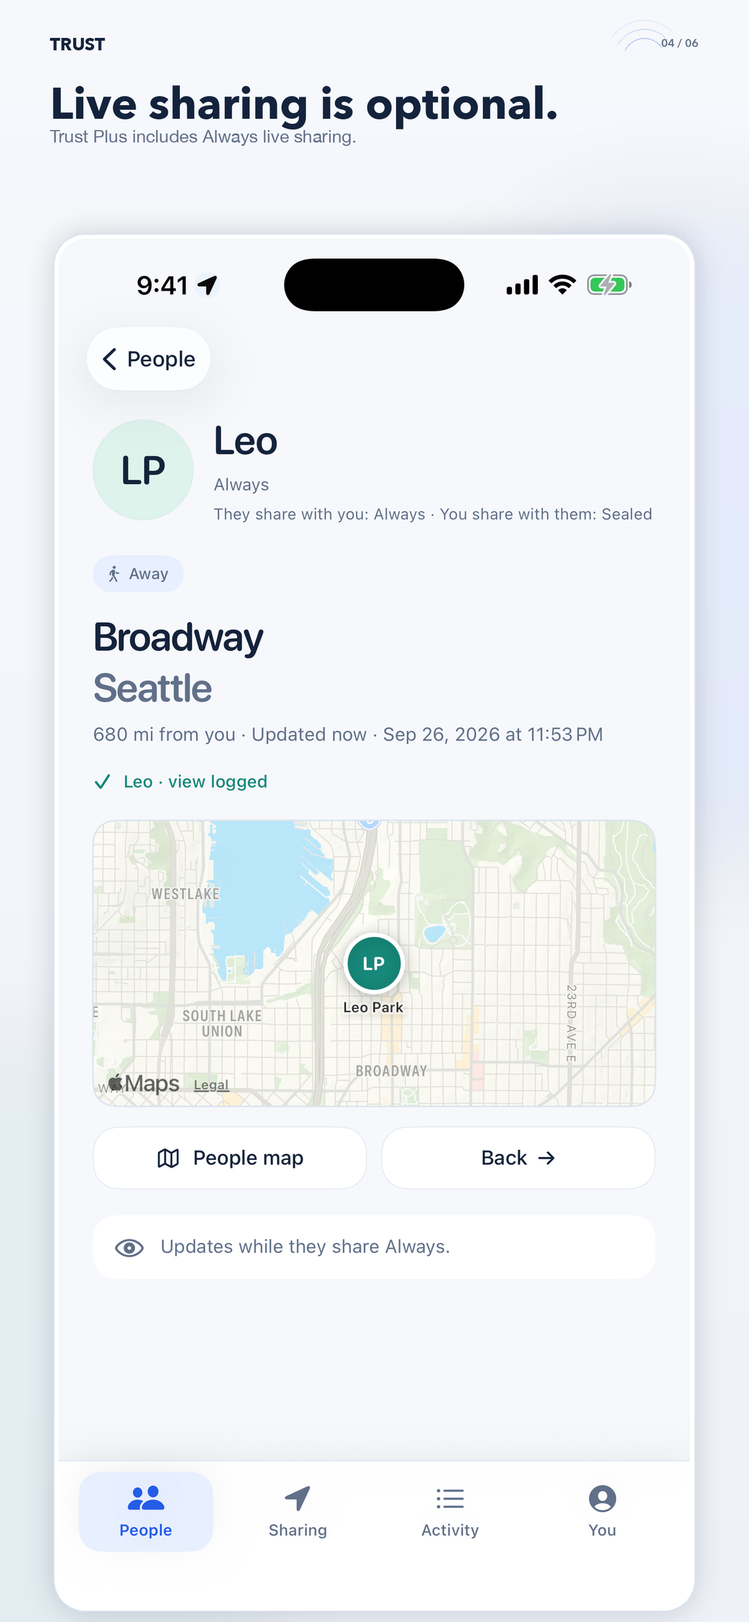
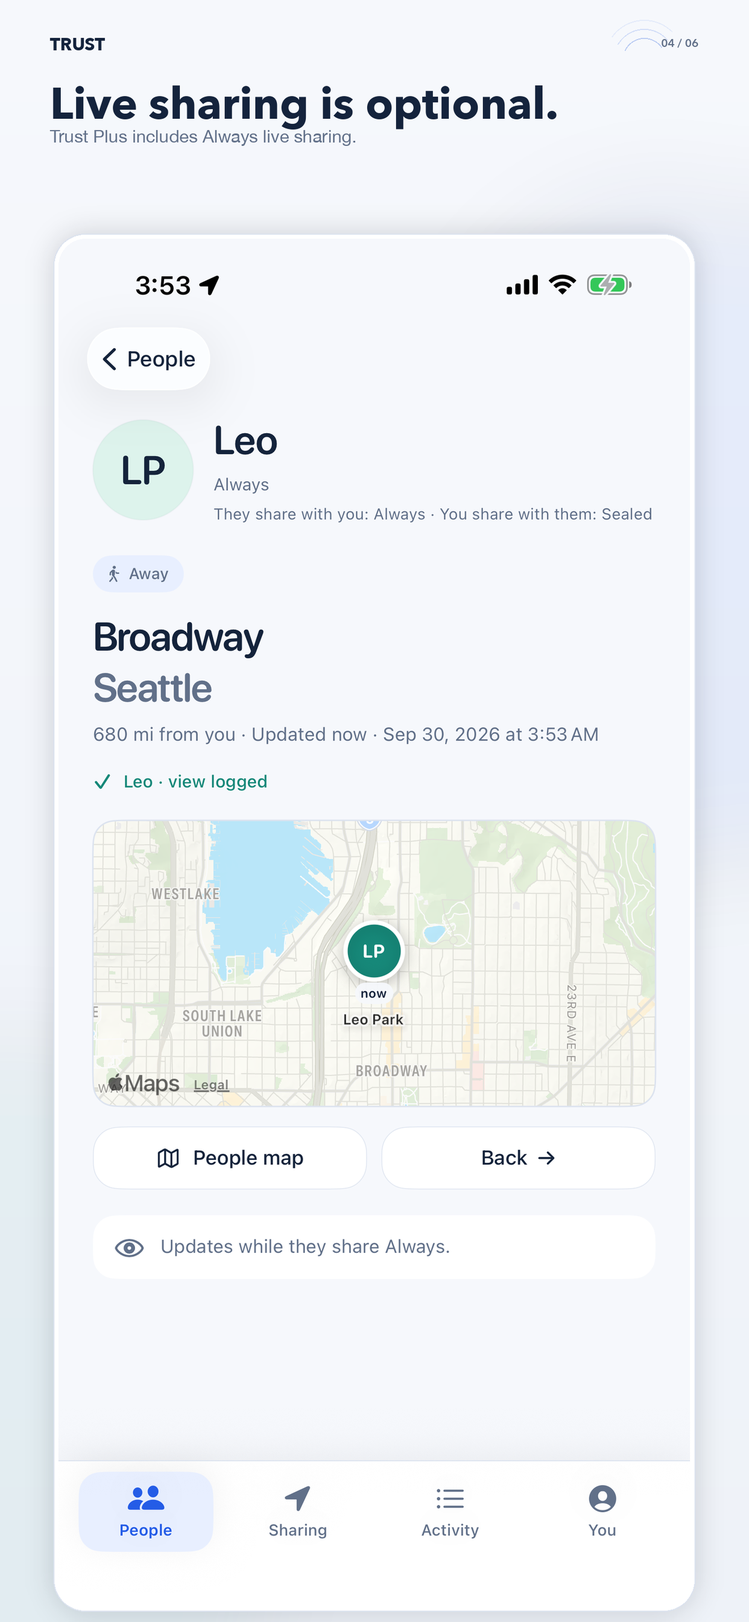
Fix launch screenshot evidence and UI test scrolling

diff --git a/apps/trust-ios/Tests/TrustUITests/TrustUsageTests.swift b/apps/trust-ios/Tests/TrustUITests/TrustUsageTests.swift
@@ -174,7 +174,13 @@ final class TrustUsageTests: XCTestCase {
         app.buttons["my-location"].tap()
         XCTAssertTrue(app.staticTexts["location-permission-status"].exists)
         app.buttons["Done"].tap()
-        app.buttons["edit-profile-picture"].tap()
+        let locationSheetDismissed = XCTNSPredicateExpectation(
+            predicate: NSPredicate(format: "exists == false"),
+            object: app.staticTexts["location-permission-status"])
+        XCTAssertEqual(XCTWaiter.wait(for: [locationSheetDismissed], timeout: 5), .completed)
+        let editProfilePicture = app.buttons["edit-profile-picture"]
+        XCTAssertTrue(scrollYouContent(to: editProfilePicture, direction: .up, in: app), "The profile picture control should be hittable after the location sheet closes.")
+        editProfilePicture.tap()
         XCTAssertTrue(app.buttons["avatar-photo-options"].waitForExistence(timeout: 5))
         app.buttons["Fox icon"].tap()
         XCTAssertTrue(app.buttons["avatar-save"].isEnabled)
@@ -191,6 +197,7 @@ final class TrustUsageTests: XCTestCase {
         for option in ["System", "Light", "Dark"] {
             let picker = app.descendants(matching: .any)["appearance-preference"]
             XCTAssertTrue(picker.waitForExistence(timeout: 5), "The appearance picker should be available in You.")
+            XCTAssertTrue(scrollYouContent(to: picker, direction: .down, in: app), "The appearance picker should be hittable after scrolling down in You.")
             picker.tap()
             let choice = app.buttons[option]
             XCTAssertTrue(choice.waitForExistence(timeout: 5), "The picker should offer the \(option) appearance.")
@@ -216,6 +223,7 @@ final class TrustUsageTests: XCTestCase {
             XCTAssertTrue(app.buttons["tab-you"].waitForExistence(timeout: 20))
             let relaunchedPicker = app.descendants(matching: .any)["appearance-preference"]
             XCTAssertTrue(relaunchedPicker.waitForExistence(timeout: 5))
+            XCTAssertTrue(scrollYouContent(to: relaunchedPicker, direction: .down, in: app), "The relaunched appearance picker should be hittable after scrolling down in You.")
             let preferenceRestored = XCTNSPredicateExpectation(
                 predicate: NSPredicate(format: "value == %@", option),
                 object: relaunchedPicker)
@@ -226,6 +234,8 @@ final class TrustUsageTests: XCTestCase {
         }
 
         let picker = app.descendants(matching: .any)["appearance-preference"]
+        XCTAssertTrue(scrollYouContent(to: picker, direction: .down, in: app))
+        XCTAssertTrue(picker.isHittable)
         picker.tap()
         app.buttons["System"].tap()
         let resetPicker = app.descendants(matching: .any)["appearance-preference"]
@@ -239,6 +249,7 @@ final class TrustUsageTests: XCTestCase {
         app.buttons["tab-you"].tap()
         let restoredPicker = app.descendants(matching: .any)["appearance-preference"]
         XCTAssertTrue(restoredPicker.waitForExistence(timeout: 5))
+        XCTAssertTrue(scrollYouContent(to: restoredPicker, direction: .down, in: app), "The restored appearance picker should be hittable after scrolling down in You.")
         let restoredToSystem = XCTNSPredicateExpectation(
             predicate: NSPredicate(format: "value == %@", "System"),
             object: restoredPicker)
@@ -389,6 +400,27 @@ final class TrustUsageTests: XCTestCase {
             XCTWaiter.wait(for: [dismissed], timeout: 5),
             .completed,
             "The confirmation dialog should dismiss before the next sharing action.")
+    }
+
+    /// Scrolls the You tab a few times and confirms the requested control is ready for input.
+    /// Starting at the control's known side of the page also handles XCUI frames that are
+    /// temporarily invalid while the control is outside the ScrollView viewport.
+    private func scrollYouContent(to element: XCUIElement, direction: ScrollDirection, in app: XCUIApplication) -> Bool {
+        let scrollView = app.scrollViews.firstMatch
+        guard scrollView.waitForExistence(timeout: 5) else { return false }
+        for _ in 0..<6 {
+            if element.isHittable { return true }
+            switch direction {
+            case .up: scrollView.swipeDown()
+            case .down: scrollView.swipeUp()
+            }
+        }
+        return element.isHittable
+    }
+
+    private enum ScrollDirection {
+        case up
+        case down
     }
 
     /// Native SwiftUI menu pickers can expose an on-screen option while XCTest reports

diff --git a/apps/trust-ios/Sources/TrustApp/AppModel.swift b/apps/trust-ios/Sources/TrustApp/AppModel.swift
@@ -1161,6 +1161,11 @@ final class AppModel: ObservableObject {
         #if DEBUG
         let service = DemoTrustService()
         service.startLeanDemo()
+        // The App Store View panel demonstrates a Plus viewer opening Leo's live
+        // Always location. Keep every other screenshot on the Free fixture.
+        if ProcessInfo.processInfo.environment["TRUST_SCREENSHOT"] == "view" {
+            service.setPro(enabled: true)
+        }
         demo = service
         isDemoMode = true
         beginAccountSessionTransition(to: "demo")

diff --git a/docs/STATUS.md b/docs/STATUS.md
@@ -1,6 +1,6 @@
 # Trust project status
 
-Updated 2026-09-30 3:15 AM PDT. This snapshot is based on the checked-out repository, GitHub Actions, Render CLI, Xcode archive/export, and public HTTP probes. App Store Connect could not be refreshed because macOS is locked; its information below is the last saved observation, not a live read.
+Updated 2026-09-30 3:55 AM PDT. This snapshot is based on the checked-out repository, GitHub Actions, Render CLI, Xcode archive/export, local simulator captures, and public HTTP probes. App Store Connect could not be refreshed because macOS is locked; its information below is the last saved observation, not a live read.
 
 ## Current release decision
 
@@ -8,7 +8,7 @@ Updated 2026-09-30 3:15 AM PDT. This snapshot is based on the checked-out reposi
 
[1 lines of base64/hex data omitted]
 
-The last saved App Store Connect observation recorded version 1.0 build 36 as `VALID` in internal group `Trust Family Auto`, with build 35 selected in the draft. The latest saved feedback is build 35 on an iPhone 16 Pro/iOS 27.0: “Uh,” 23 seconds of uptime, and a screenshot reading “We can’t complete the required check.” No newer feedback or crash report confirms resolution. App Store Connect still needs a live refresh; the previous API read returned `NOT_AUTHORIZED`. The required-check failure needs a normal physical retry on the same iPhone after the current build is processed. Simulator fixtures do not prove Apple's live age-assurance or App Transaction registration flow.
+The last saved App Store Connect observation recorded version 1.0 build 36 as `VALID` in internal group `Trust Family Auto`, with build 35 selected in the draft. The latest saved feedback is build 35 on an iPhone 16 Pro/iOS 27.0: “Uh,” 23 seconds of uptime, and a screenshot reading “We can’t complete the required check.” GitHub PR #15 has no posted review comments; no newer App Store Connect feedback or crash report could be checked while macOS is locked. The previous API read returned `NOT_AUTHORIZED`. The required-check failure needs a normal physical retry on the same iPhone after the current build is processed. Simulator fixtures do not prove Apple's live age-assurance or App Transaction registration flow.
 
 ## Live services and database
 
@@ -16,12 +16,14 @@ The last saved App Store Connect observation recorded version 1.0 build 36 as `V
 - Render Postgres is available in Oregon on `basic_256mb`, 15 GB disk, with disk autoscaling off, no high availability, and no connection pool. This is the current beta configuration, **not demonstrated capacity for millions of users**. Measure workload and cost, add monitoring and recovery evidence, then scale deliberately before meaningful growth.
 - `jointrust.app`, `/privacy`, `/terms`, `/support`, `/sms`, `/sms-opt-in.png`, and `/.well-known/apple-app-site-association` all returned HTTP 200. The deployed Cloudflare Worker is `jointrust-web`, version `f8382a78-2b17-45ba-8cad-1ec4d46dd800`; the revised Privacy, Terms, and Support pages are live. The homepage CTA opens an email draft for beta access; it is not a signup database, waitlist, or public App Store link.
 - Migration 021 persists phone verification consent events. The registered Twilio campaign and its actual HELP/STOP flow have not been independently re-verified. Keep the existing 40 verification-SMS/day setting treated as a hard beta ceiling until provider limits, abuse controls, and spend alerts are deliberately reviewed.
+- **Monitoring gap:** the API exposes live/readiness health checks, but a source/dependency scan found no application metrics/tracing or mobile crash-reporting integration. Current provider alert recipients and a delivered alert drill were not verified. Before public promotion, choose a privacy-safe, bounded monitoring path, add API/mobile crash and error signals plus SMS/database spend thresholds, name an on-call/support owner, and test that alerts reach them. Keep location, phone, identity, and invite payloads out of telemetry.
 
 ## Feature and release evidence
 
 - The paired iPhone 17 Pro + Duo simulator E2E from 29 September passed onboarding, reciprocal Home/Away grants, handle/phone discovery, connection request and acceptance, removal/re-add, Sealed Look/map/Activity, Home movement/update/clear, Hidden, Stop, and fresh default-Off. It used isolated Development services and fictional 555-01xx numbers; it did not send SMS or prove physical APNs delivery.
 - Focused simulator fault tests covered delayed Circle responses and refresh failure across Stop, Remove, and partial Stop All, plus a delayed Look during remove/re-add. Each passed 1/1 with no skips. A paid-entitlement History race and same-account reconnect across physical devices remain unverified. See [two-account E2E evidence](LOCAL-TWO-ACCOUNT-E2E.md) and [the remaining interaction matrix](FEATURE-E2E-PLAN.md).
-- PR #14 validation passed API, iOS, and web checks. The post-merge iOS job was still running in CI `36699341073` at this snapshot; its completion must be rechecked before release. The simulator UI checks do not replace physical TestFlight checks.
+- PR #14 validation and post-merge CI `36699341073` passed API, iOS, and web checks. PR #15 run `36701410936` passed API and web but failed iOS UI tests. The test patch was then verified locally: both affected UI tests passed (2/2); that patch and the screenshot-only Plus fixture are awaiting push and a fresh CI run. Simulator UI checks do not replace physical TestFlight checks.
+- The 18 annotated App Store screenshot assets were regenerated and visually checked locally at 6.9-inch iPhone (1320 × 2868), 6.5-inch iPhone (1242 × 2688), and 13-inch iPad (2064 × 2752). The live-location panel now uses a synthetic Plus viewer and the simulator status-bar time matches capture time. These local files have not been uploaded to App Store Connect.
 - Push notifications are best effort. APNs configuration is enabled, but no current physical TestFlight evidence verifies delivery, presentation, or taps. Do not promise guaranteed notification delivery.
 - `docs/DESIGN.md` is the current design reference. `docs/PRODUCTION-READINESS.md` is the current launch and scale plan; older issue notes are historical unless repeated in the open gates below.
 

diff --git a/docs/PRODUCTION-READINESS.md b/docs/PRODUCTION-READINESS.md
@@ -1,6 +1,6 @@
 # Trust production readiness plan
 
-Updated 2026-09-30 3:15 AM PDT. This is the active launch and scale plan, not a claim that every large-scale control is deployed. `STATUS.md` records the latest checked evidence; `DESIGN.md` remains the source for current UX. Trust's core promise is consensual, revocable location sharing. A feature that obscures consent, loses a paid entitlement, or presents stale location or a requested notification as guaranteed is a product and operations failure.
+Updated 2026-09-30 3:55 AM PDT. This is the active launch and scale plan, not a claim that every large-scale control is deployed. `STATUS.md` records the latest checked evidence; `DESIGN.md` remains the source for current UX. Trust's core promise is consensual, revocable location sharing. A feature that obscures consent, loses a paid entitlement, or presents stale location or a requested notification as guaranteed is a product and operations failure.
 
 ## Current release decision — 2026-09-30
 
@@ -10,6 +10,8 @@ The last saved App Store Connect observation records build 36 as `VALID` in `Tru
 
 The current production database is Render Postgres `basic_256mb`, 15 GB disk, without high availability, disk autoscaling, or a connection pool. Production health is good for the current beta, but this is not measured million-user capacity. The live API source includes migrations 001–021; Render health readiness is 200, while direct ledger inspection remains blocked by the database IP allowlist. PR #14 changes only iOS UI/tests, so no additional database migration is required for this release candidate.
 
+The API exposes liveness/readiness checks, but a code/dependency scan found no application-level metrics/tracing or mobile crash-reporting integration. Current provider alert destinations and delivery were not verified. Before broad public acquisition, choose a privacy-safe minimum cockpit (API/database latency, iOS crashes, APNs/SMS/StoreKit errors, spend thresholds), name a primary and backup responder, and run an alert drill. Do not log raw coordinates, phone numbers, handles, invite tokens, or device tokens.
+
 App Review still needs live App Store Connect checks (privacy categories, audience/age rating, subscriptions and review resources, metadata, reviewer access, territory, and manual-release setting), the same-device Apple age-assurance retry, physical purchase/restore and notification/location verification, and Twilio campaign/HELP/STOP reconciliation. Keep the release manual until these gates pass. A paid History race and same-account physical second-device reconnect remain unverified; the paired simulator evidence is not physical-device evidence. Do not enable production bypasses or imply guaranteed location freshness or notification delivery.
 
 The current website homepage opens an email draft for beta requests; it is not a waitlist or public install route. Confirm the inbox is monitored before using it in a post. A truthful adult-focused prelaunch post can say public downloads are not open. Do not buy install traffic until the app is public, attribution works, and the owner sets a spend cap. `STATUS.md` contains the timestamped verification snapshot and exact open gates.
@@ -18,7 +20,7 @@ Render auto-deploys `main`. Migration behavior has been tested against a populat
 
 ## Same-day launch path
 
-The API deployment and revised legal pages are live. PR #14 is merged and its PR CI is green; the post-merge iOS job was still running during the last check. The Mac must be unlocked for a live App Store Connect refresh, physical iPhone test, and account-authenticated upload. The current build-38 archive is stale relative to `main`; prepare the next build number and archive after CI is green. Then proceed in this order:
+The API deployment and revised legal pages are live. PR #14 and post-merge CI `36699341073` passed all jobs. Build 39 is archived/exported and its production signature and entitlements are verified; PR #15 run `36701410936` passed API and web but failed iOS UI tests. The affected UI tests and Plus-only screenshot fixture were fixed and verified locally, but the branch still needs push and a fresh CI run. The regenerated screenshot assets are local and unuploaded. The Mac must be unlocked for a live App Store Connect refresh, physical iPhone test, and account-authenticated upload. Then proceed in this order:
 
 1. Unlock the Mac and refresh the current App Store Connect version, latest build number, internal group, feedback, agreements, subscription status, privacy categories, and listing state. Do not infer them from Markdown snapshots.
 2. The current-source build-39 IPA is already exported and validated. Confirm build 39 is unused; if it is taken, increment and rebuild. Merge the release branch after its CI passes, then upload the regular Trust target only after confirming the API is ready. Wait for processing and verify it appears in `Trust Family Auto`.

diff --git a/apps/trust-ios/AppStore/REVIEW-READINESS.md b/apps/trust-ios/AppStore/REVIEW-READINESS.md
@@ -2,7 +2,7 @@
 
 This is a submission checklist, not a record of current App Store Connect state. Build assignment, metadata, agreements, and review status change outside the repository; verify them directly in App Store Connect before release actions. The last dated external observations are recorded in [project status](../../../docs/STATUS.md) and should be treated as unverified until checked again.
 
-## Current evidence — 2026-09-30 3:15 AM PDT
+## Current evidence — 2026-09-30 3:55 AM PDT
 
 The last saved App Store Connect observation records build 36 as `VALID` in `Trust Family Auto` and build 35 selected in the 1.0 draft. The latest saved feedback is build 35 on iPhone 16 Pro/iOS 27.0: “We can’t complete the required check.” No newer report proves resolution. App Store Connect could not be refreshed while macOS was locked; the previous API read returned `NOT_AUTHORIZED`.
 
@@ -10,7 +10,7 @@ The app source is merged to `main` at `f579005fb73fbc45b6d3551b5ab63fac7da240c6`
 
 Render `trust-api` is live on commit `de977df9879429582b73776a66dd88e4d952dc52`; `/health/live` and `/health/ready` returned 200. The merged app change has no API or database change and needs no redeploy/migration. Cloudflare Worker `jointrust-web` version `f8382a78-2b17-45ba-8cad-1ec4d46dd800` serves the current Privacy, Terms, and Support pages, all returning 200.
 
-The English (U.S.) listing and screenshot sets were applied in an earlier saved App Store Connect observation. Refresh and compare every field live; categories, reviewer access, App Privacy, age rating, agreements, subscription products and review resources, screenshots, and territories are not confirmed current. No public App Review submission has been made.
+The English (U.S.) listing and an earlier screenshot set were applied in the last saved App Store Connect observation. The local annotated screenshot set has since been regenerated and reviewed; it has not been uploaded. Refresh and compare every field live; categories, reviewer access, App Privacy, age rating, agreements, subscription products and review resources, screenshots, and territories are not confirmed current. No public App Review submission has been made.
 
 The age-gate simulator suite uses fixtures and does not call Apple's live service. Retest the required-check flow on the same iPhone 16 Pro using normal Apple sign-in, age assurance, and App Transaction registration. Twilio campaign alignment, physical notification/background-location behavior, purchase/restore, and the full reviewer journey still need evidence. See [project status](../../../docs/STATUS.md) and [two-account E2E evidence](../../../docs/LOCAL-TWO-ACCOUNT-E2E.md).
 
@@ -20,7 +20,7 @@ The age-gate simulator suite uses fixtures and does not call Apple's live servic
 - [x] Increment to build 39 and archive/export the current `main` app source with `ExportOptions-AppStore.plist`; verify Apple Distribution signing, production APNs, Declared Age Range entitlement, `get-task-allow=false`, production API URL, and `TRUST_SKIP_PHONE_VERIFICATION=false`. The project change still needs CI/merge, and App Store Connect must confirm 39 is unused.
 - [x] Merge the current source and deploy the backend. The active API is on `de977df`; `/health/ready` and current legal/SMS routes returned 200. The latest app-only change needs no API redeploy or migration.
 - [ ] Complete listing name, subtitle, description, keywords, categories, support/marketing/privacy URLs, reviewer contact, release timing, territory availability, and platform compatibility.
-- [x] Upload current English (U.S.) screenshots to the iPhone 6.9, iPhone 6.5, and iPad 13 sets; verify six ordered `COMPLETE` assets at each target size. Recheck visible content against the exact selected release candidate before submission.
+- [ ] Upload the regenerated English (U.S.) screenshots to the iPhone 6.9, iPhone 6.5, and iPad 13 sets; verify six ordered `COMPLETE` assets at each target size. Recheck visible content against the exact selected release candidate before submission.
 - [ ] Reconcile App Privacy answers and the privacy manifest against release code and server behavior, including location, phone, identity, connection social graph, installation/device identifiers, and profile photos. Build 36 retains the Contacts and Device ID manifest additions; finish Contacts and Photos setup in App Store Connect.
 - [ ] Choose and align the age policy across the app, Terms, Privacy, listing, and age rating.
 - [ ] Verify the Paid Apps agreement, subscription group/products, price, trial, localizations, review screenshots, purchase, and restore.

diff --git a/apps/trust-ios/AppStore/Screenshots/2026-09/README.md b/apps/trust-ios/AppStore/Screenshots/2026-09/README.md
@@ -1,6 +1,6 @@
-# Trust App Store screenshots — September 2026
+# Trust App Store screenshot source — September 2026
 
-This is a proposed asset set for the App Store listing. It shows the current interface in this order: location sharing and checks, one snapshot, per-person sharing choices, separate live sharing, the Activity record, and connection setup.
+This repository contains the six annotated panels prepared for the App Store listing. The last saved App Store Connect observation says six ordered assets were complete in each of the iPhone 6.9-inch, iPhone 6.5-inch, and iPad 13-inch groups. The Mac is locked, so the live sets and their correspondence to these files have not been rechecked. Compare them to the selected release build before submission; changing these local files does not update App Store Connect.
 
 ## Upload assets
 
@@ -9,10 +9,10 @@ This is a proposed asset set for the App Store listing. It shows the current int
 - `ipad-13/`: the same six panels at **2064 × 2752**, RGB PNG for the 13-inch iPad listing.
 - `raw/`: local-only direct simulator captures used as the screen layer. These are reproducible and ignored by Git; do not upload the unannotated source images.
 
-The app UI is captured from the current source with the DEBUG-only, offline screenshot fixture. Names and locations are synthetic. The phone-search panel uses the fictional North American test number `+1 (202) 555-0134`; the result represents a verified account that opted into discovery. No real user account or location is included.
+The app UI is captured from the current source with the DEBUG-only, offline screenshot fixture. Names and locations are synthetic. The live-location panel uses a Plus-enabled synthetic viewer so its live pin and map entitlement count agree; other panels retain the Free viewer. The phone-search panel uses the fictional North American test number `+1 (202) 555-0134`; the result represents a verified account that opted into discovery. No real user account or location is included.
 
 ## Rebuild
 
-From the repository root, run `apps/trust-ios/AppStore/capture-app-store-screenshots.sh`, then `python3 apps/trust-ios/AppStore/build-store-screenshots.py`. The capture script sets Light appearance, creates and removes its own simulators, and never uploads assets. Pillow and the macOS Avenir Next / Helvetica Neue fonts are used for the annotation layer. The builder exports both supported iPhone listing sizes from the same captured screens and design.
+From the repository root, run `apps/trust-ios/AppStore/capture-app-store-screenshots.sh`, then `python3 apps/trust-ios/AppStore/build-store-screenshots.py`. The capture script sets Light appearance, uses the Mac's local time for the simulator status bar, creates and removes one simulator at a time, and never uploads assets. Pillow and the macOS Avenir Next / Helvetica Neue fonts are used for the annotation layer. The builder exports both supported iPhone listing sizes from the same captured screens and design.
 
-The proposed panels use Trust’s porcelain, navy, blue, and teal palette. Each has one headline, one short explanation, and a large capture of the current app UI. The layout removes the old campaign slogan, category label, and decorative proof badge. Review the images at storefront scale and against the submitted build before uploading; this local asset package does not update App Store Connect.
+The panels use Trust’s porcelain, navy, blue, and teal palette. Each has one headline, one short explanation, and a large capture of the current app UI. They remove the old campaign slogan, category label, and decorative proof badge. Review the live assets at storefront scale and against the submitted build before submission.

diff --git a/docs/LOCAL-TWO-ACCOUNT-E2E.md b/docs/LOCAL-TWO-ACCOUNT-E2E.md
@@ -12,7 +12,7 @@ A separate History UI run, `/tmp/trust-history-current-source-20260929.xcresult`
 
 The paired and History lanes used an isolated ASP.NET Development API backed by Memory on `127.0.0.1:5089`, with the review seed disabled. The fixtures use reserved fictional 555-01xx numbers and Development OTP; no SMS was sent. No push devices were registered, so these runs do not establish APNs delivery, OS presentation, or tap behavior. They also do not establish physical-device SMS, background location, or StoreKit behavior.
 
-At that same 2026-09-29 source checkpoint, Swift package tests passed **77/77**, the API suite passed **183/183**, and the paired results above exercised the normal reciprocal-grant and relationship flow. These are checkpoint results, not the current merged-source test count. Current merged-source evidence is recorded in [STATUS.md](STATUS.md): API/Postgres suite **192/192** and [GitHub main CI run 36667903930](https://github.com/QuirinoC/trust/actions/runs/36667903930). The focused Stop/Remove/partial Stop All/delayed Look evidence below adds deterministic fault coverage; delayed History remains open.
+At that same 2026-09-29 source checkpoint, Swift package tests passed **77/77**, the API suite passed **183/183**, and the paired results above exercised the normal reciprocal-grant and relationship flow. These are checkpoint results, not the current merged-source test count. On current `main` `f579005`, the API/Postgres suite passed **202/202**, Swift tests passed **81/81**, and [GitHub main CI run 36699341073](https://github.com/QuirinoC/trust/actions/runs/36699341073) passed API, iOS, and web jobs. The build-39 release branch changes only version metadata and launch documentation; its CI is tracked separately. The focused Stop/Remove/partial Stop All/delayed Look evidence below adds deterministic fault coverage; delayed History remains open.
 
 The unsigned simulator `TrustAgeGateTests` suite passed **6/6** after DEBUG-only `TrustKeychain` test storage was enabled for `TRUST_AGE_TEST_MODE=1`; result: `/tmp/trust-agegate-keychain-fix-20260929.xcresult`. The release keychain path remains unchanged. That grant assertion was synchronized with the enabled UI action. Earlier failed harness attempts and the rate-limited five-case run are not counted as completed evidence.
 
